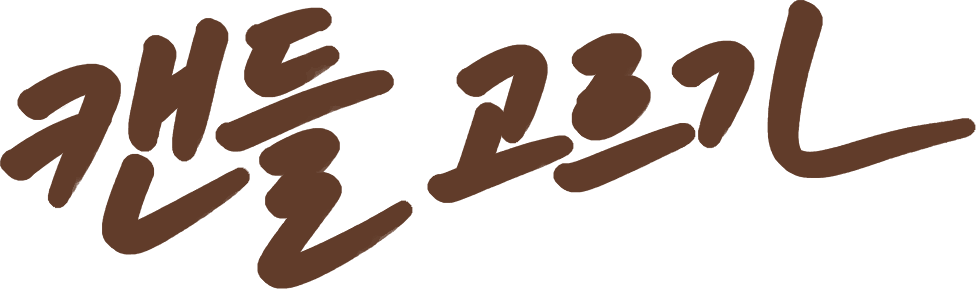
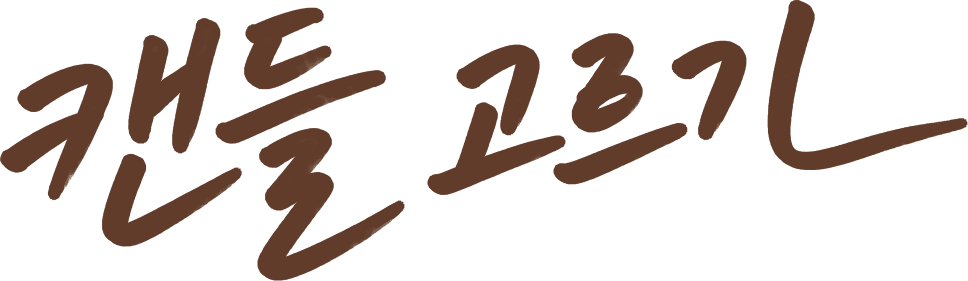
고르기 손글씨 굵기를 8px에서 4px로 낮춤
원본 손글씨에서 다시 구워 붓 끝의 가늘어지는 모양과 질감이 살게 했습니다.

diff --git a/app/page.tsx b/app/page.tsx
@@ -175,7 +175,7 @@ export default function Home() {
                 직접 쓴 캘리그래피라 폰트 대신 이미지로 넣습니다(배경은 투명).
                 한 장으로 쓰면 짧은 첫 줄 '나만의'가 왼쪽에 붙어 오른쪽이 비어 보여서, 줄마다 잘라 둔 그림을
                 각각 가운데에 맞춰 쌓습니다. 폭(%)은 원본(1096px)에서 각 줄이 차지하던 너비라 두 줄 글씨 크기가 같게 유지됩니다.
-                붓 획이 가늘어 띠 위에서 약해 보여서, 두 그림 모두 획을 바깥으로 8px씩 넓혀 굵게 구웠습니다(그만큼 그림도 16px씩 커짐).
+                붓 획이 가늘어 띠 위에서 약해 보여서, 두 그림 모두 획을 바깥으로 4px씩 넓혀 살짝 굵게 구웠습니다(그만큼 그림도 8px씩 커짐). 8px은 붓 느낌이 뭉개질 만큼 무거웠습니다.
                 h2의 이름은 aria-label로 한 번에 읽히게 하고, 그림 두 장은 장식으로 숨깁니다.
               */}
               {/* 제목과 스티커를 한 상자에 묶어 스티커 자리를 제목 기준으로 잡습니다(@container: 스티커 글씨도 이 폭을 따라 커짐). */}
@@ -184,17 +184,17 @@ export default function Home() {
                 <Image
                   src="/brand/choose-headline-1.png"
                   alt=""
-                  width={573}
-                  height={210}
-                  className="ink-art w-[52.3%] h-auto"
+                  width={565}
+                  height={202}
+                  className="ink-art w-[51.6%] h-auto"
                   sizes="(max-width: 767px) 46vw, 275px"
                 />
                 <Image
                   src="/brand/choose-headline-2.png"
                   alt=""
-                  width={976}
-                  height={289}
-                  className="ink-art w-[89%] h-auto"
+                  width={968}
+                  height={281}
+                  className="ink-art w-[88.3%] h-auto"
                   sizes="(max-width: 767px) 79vw, 473px"
                 />
               </h2>

diff --git a/CLAUDE.md b/CLAUDE.md
@@ -51,7 +51,7 @@
 | 섹션 | 주인공 소품 |
 |---|---|
 | 히어로 | 콜라주 (예외: 여러 소품을 모으는 자리) |
-| 나만의 캔들 고르기 제목 | 손글씨 제목(획을 넓혀 굵게 구운 두 줄 그림) 둘레에 흩어 붙인 스티커 다섯 장 (스티커는 이 자리에만, 줄 세우지 않고 크기·각도·높이를 다르게, 손글씨 획은 가리지 않게) |
+| 나만의 캔들 고르기 제목 | 손글씨 제목(획을 4px 넓혀 살짝 굵게 구운 두 줄 그림) 둘레에 흩어 붙인 스티커 다섯 장 (스티커는 이 자리에만, 줄 세우지 않고 크기·각도·높이를 다르게, 손글씨 획은 가리지 않게) |
 | 나만의 캔들 고르기 목록 | 즉석 사진. 제목 띠 바로 아래에 색을 골라 보는 `ColorTryOn`(사이트에서 방문자가 직접 해 보는 단 하나, 찢은 흰 종이 무대 위 three.js 3D 유리컵 캔들 `CandleJar3D`, 화면에 다가올 때만 불러옴)을 먼저 둡니다 |
 | 이런 날에 | 즉석 사진 묶음 |
 | 브랜드 이야기 | 낡은 인화 사진(`.worn-print`) |
